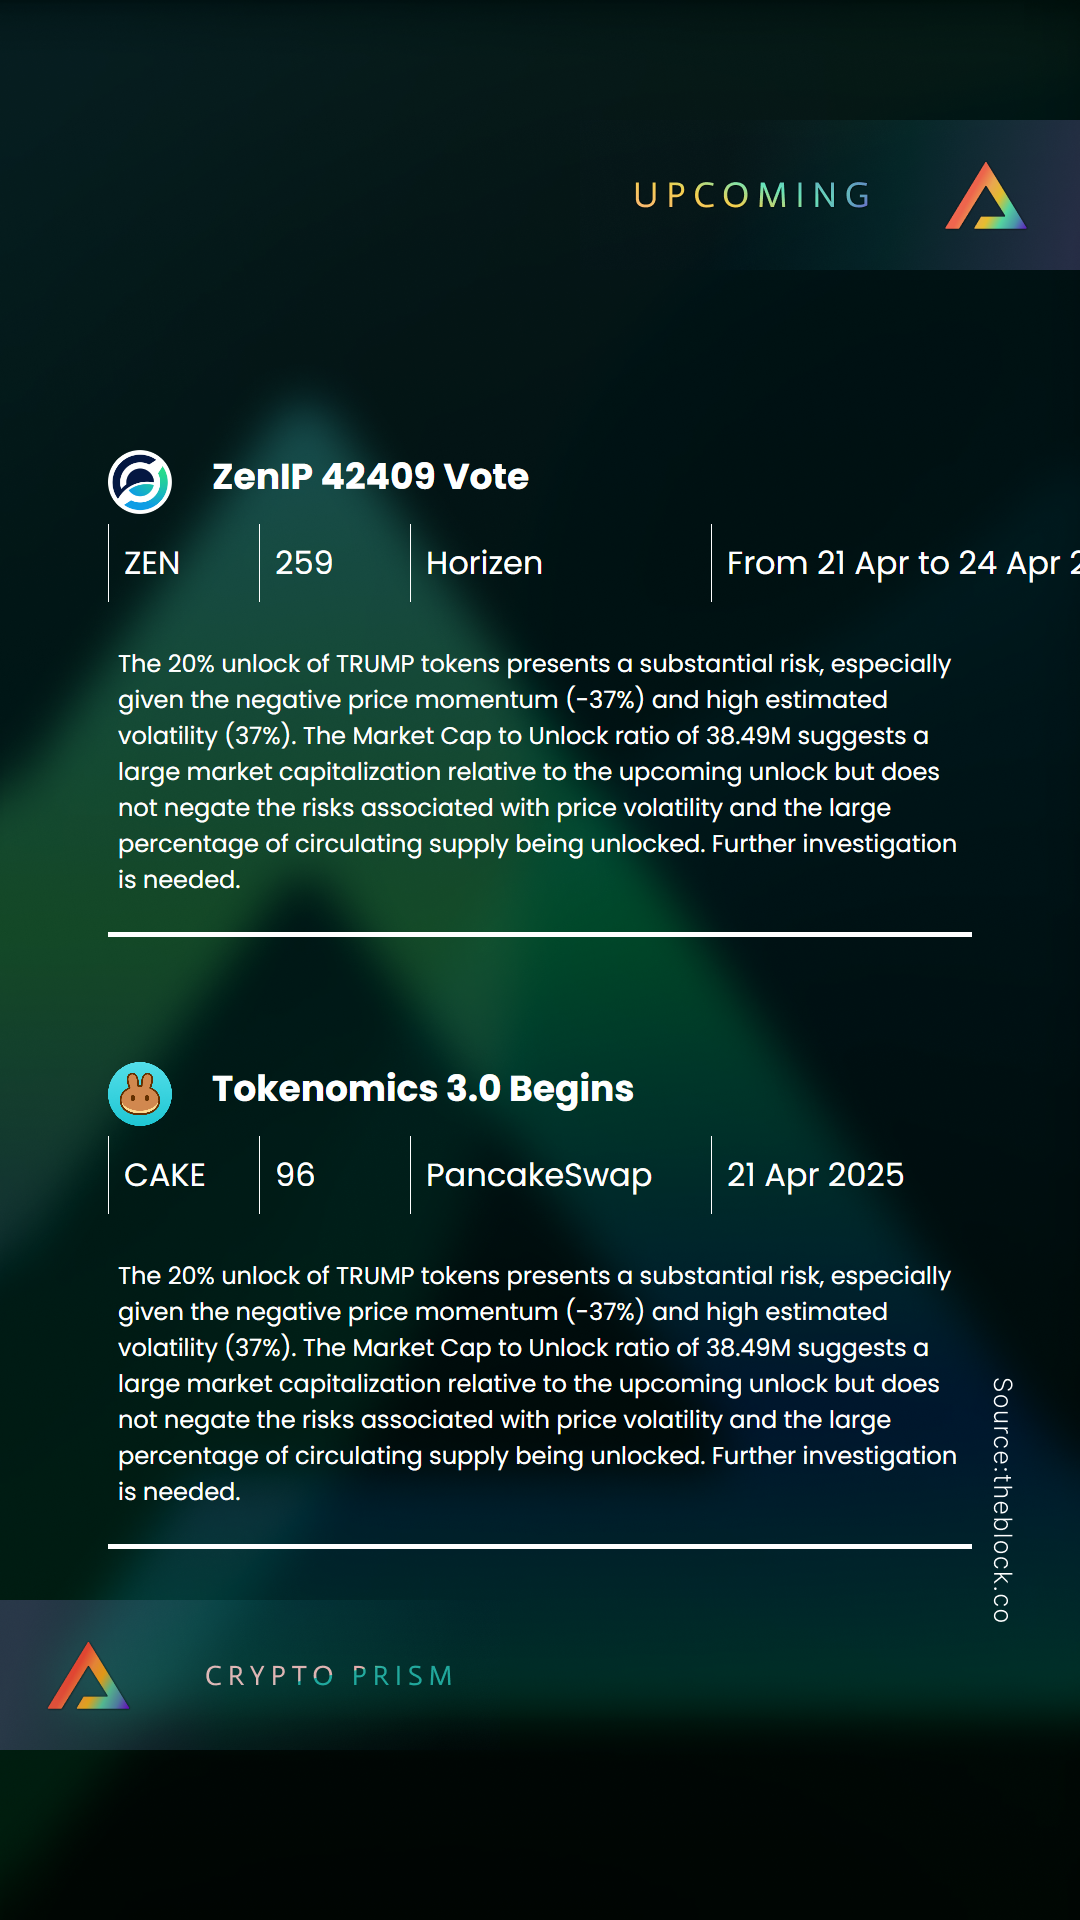
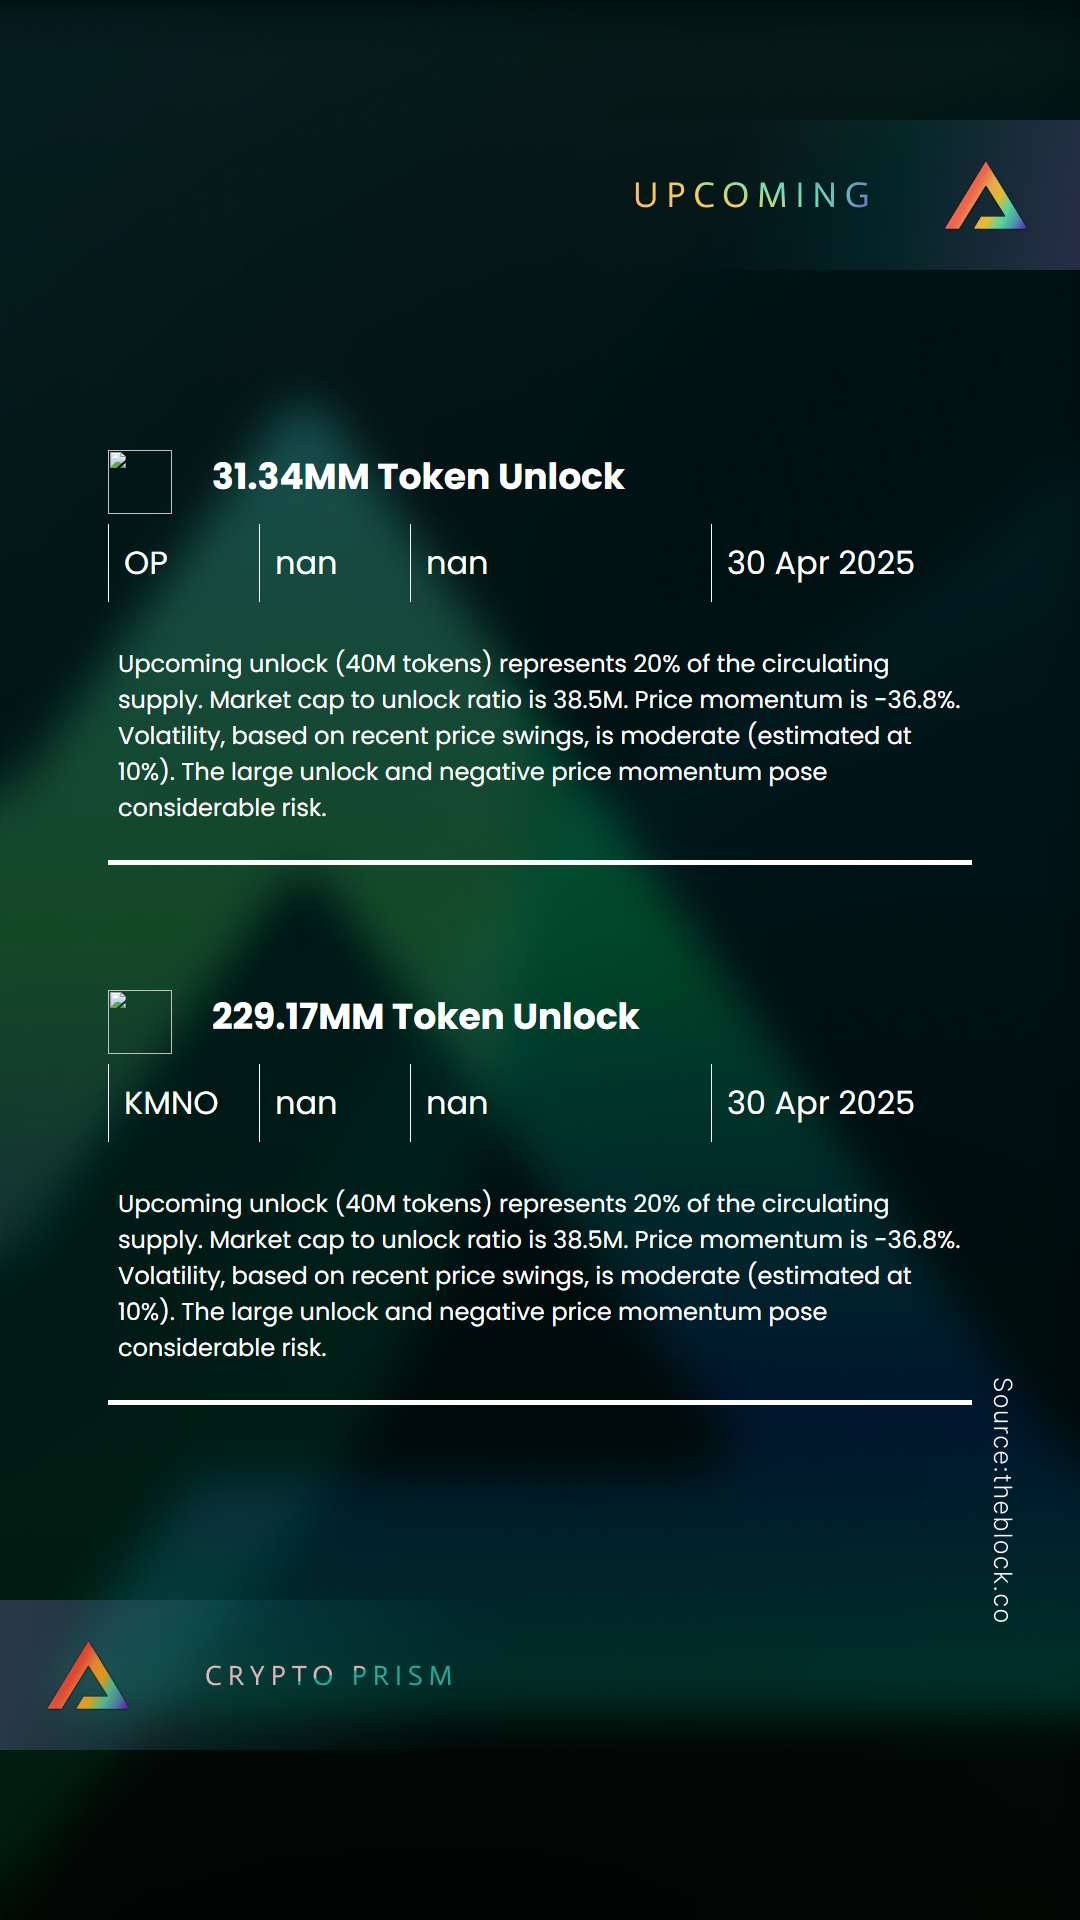
tokenomics

diff --git a/tokenomics_output.html b/tokenomics_output.html
@@ -13,33 +13,33 @@
             
             <div class="frame">
                 <div class="row1">
-                    <img class="logo" src="https://s2.coinmarketcap.com/static/img/coins/64x64/1698.png">
-                    <h2 class="title">ZenIP 42409 Vote</h2>
+                    <img class="logo" src="nan">
+                    <h2 class="title">31.34MM Token Unlock</h2>
                 </div>
                 <div class="row2">
-                    <div class="symbol">ZEN</div>
-                    <div class="rank">259</div>
-                    <div class="name">Horizen</div>
-                    <div class="event">From 21 Apr to 24 Apr 2025</div>
+                    <div class="symbol">OP</div>
+                    <div class="rank">nan</div>
+                    <div class="name">nan</div>
+                    <div class="event">30 Apr 2025</div>
                 </div>
                 <div class="news">
-                    <p>The 20% unlock of TRUMP tokens presents a substantial risk, especially given the negative price momentum (-37%) and high estimated volatility (37%). The Market Cap to Unlock ratio of 38.49M suggests a large market capitalization relative to the upcoming unlock but does not negate the risks associated with price volatility and the large percentage of circulating supply being unlocked.  Further investigation is needed.</p>
+                    <p>Upcoming unlock (40M tokens) represents 20% of the circulating supply.  Market cap to unlock ratio is 38.5M. Price momentum is -36.8%. Volatility, based on recent price swings, is moderate (estimated at 10%). The large unlock and negative price momentum pose considerable risk.</p>
                 </div>
             </div>
             
             <div class="frame">
                 <div class="row1">
-                    <img class="logo" src="https://s2.coinmarketcap.com/static/img/coins/64x64/7186.png">
-                    <h2 class="title">Tokenomics 3.0 Begins</h2>
+                    <img class="logo" src="nan">
+                    <h2 class="title">229.17MM Token Unlock</h2>
                 </div>
                 <div class="row2">
-                    <div class="symbol">CAKE</div>
-                    <div class="rank">96</div>
-                    <div class="name">PancakeSwap</div>
-                    <div class="event">21 Apr 2025</div>
+                    <div class="symbol">KMNO</div>
+                    <div class="rank">nan</div>
+                    <div class="name">nan</div>
+                    <div class="event">30 Apr 2025</div>
                 </div>
                 <div class="news">
-                    <p>The 20% unlock of TRUMP tokens presents a substantial risk, especially given the negative price momentum (-37%) and high estimated volatility (37%). The Market Cap to Unlock ratio of 38.49M suggests a large market capitalization relative to the upcoming unlock but does not negate the risks associated with price volatility and the large percentage of circulating supply being unlocked.  Further investigation is needed.</p>
+                    <p>Upcoming unlock (40M tokens) represents 20% of the circulating supply.  Market cap to unlock ratio is 38.5M. Price momentum is -36.8%. Volatility, based on recent price swings, is moderate (estimated at 10%). The large unlock and negative price momentum pose considerable risk.</p>
                 </div>
             </div>
             

diff --git a/[FE]tokenomics.py b/[FE]tokenomics.py
@@ -50,6 +50,8 @@ async def generate_image_from_html(output_html_file, output_image_path):
 async def render_page():
     
     df_filtered = fetch_tokenomics_news()
+    df_filtered = df_filtered.tail(2)
+
     df = df_filtered.to_dict(orient='records')
 
     env = Environment(loader=FileSystemLoader('templates'))
